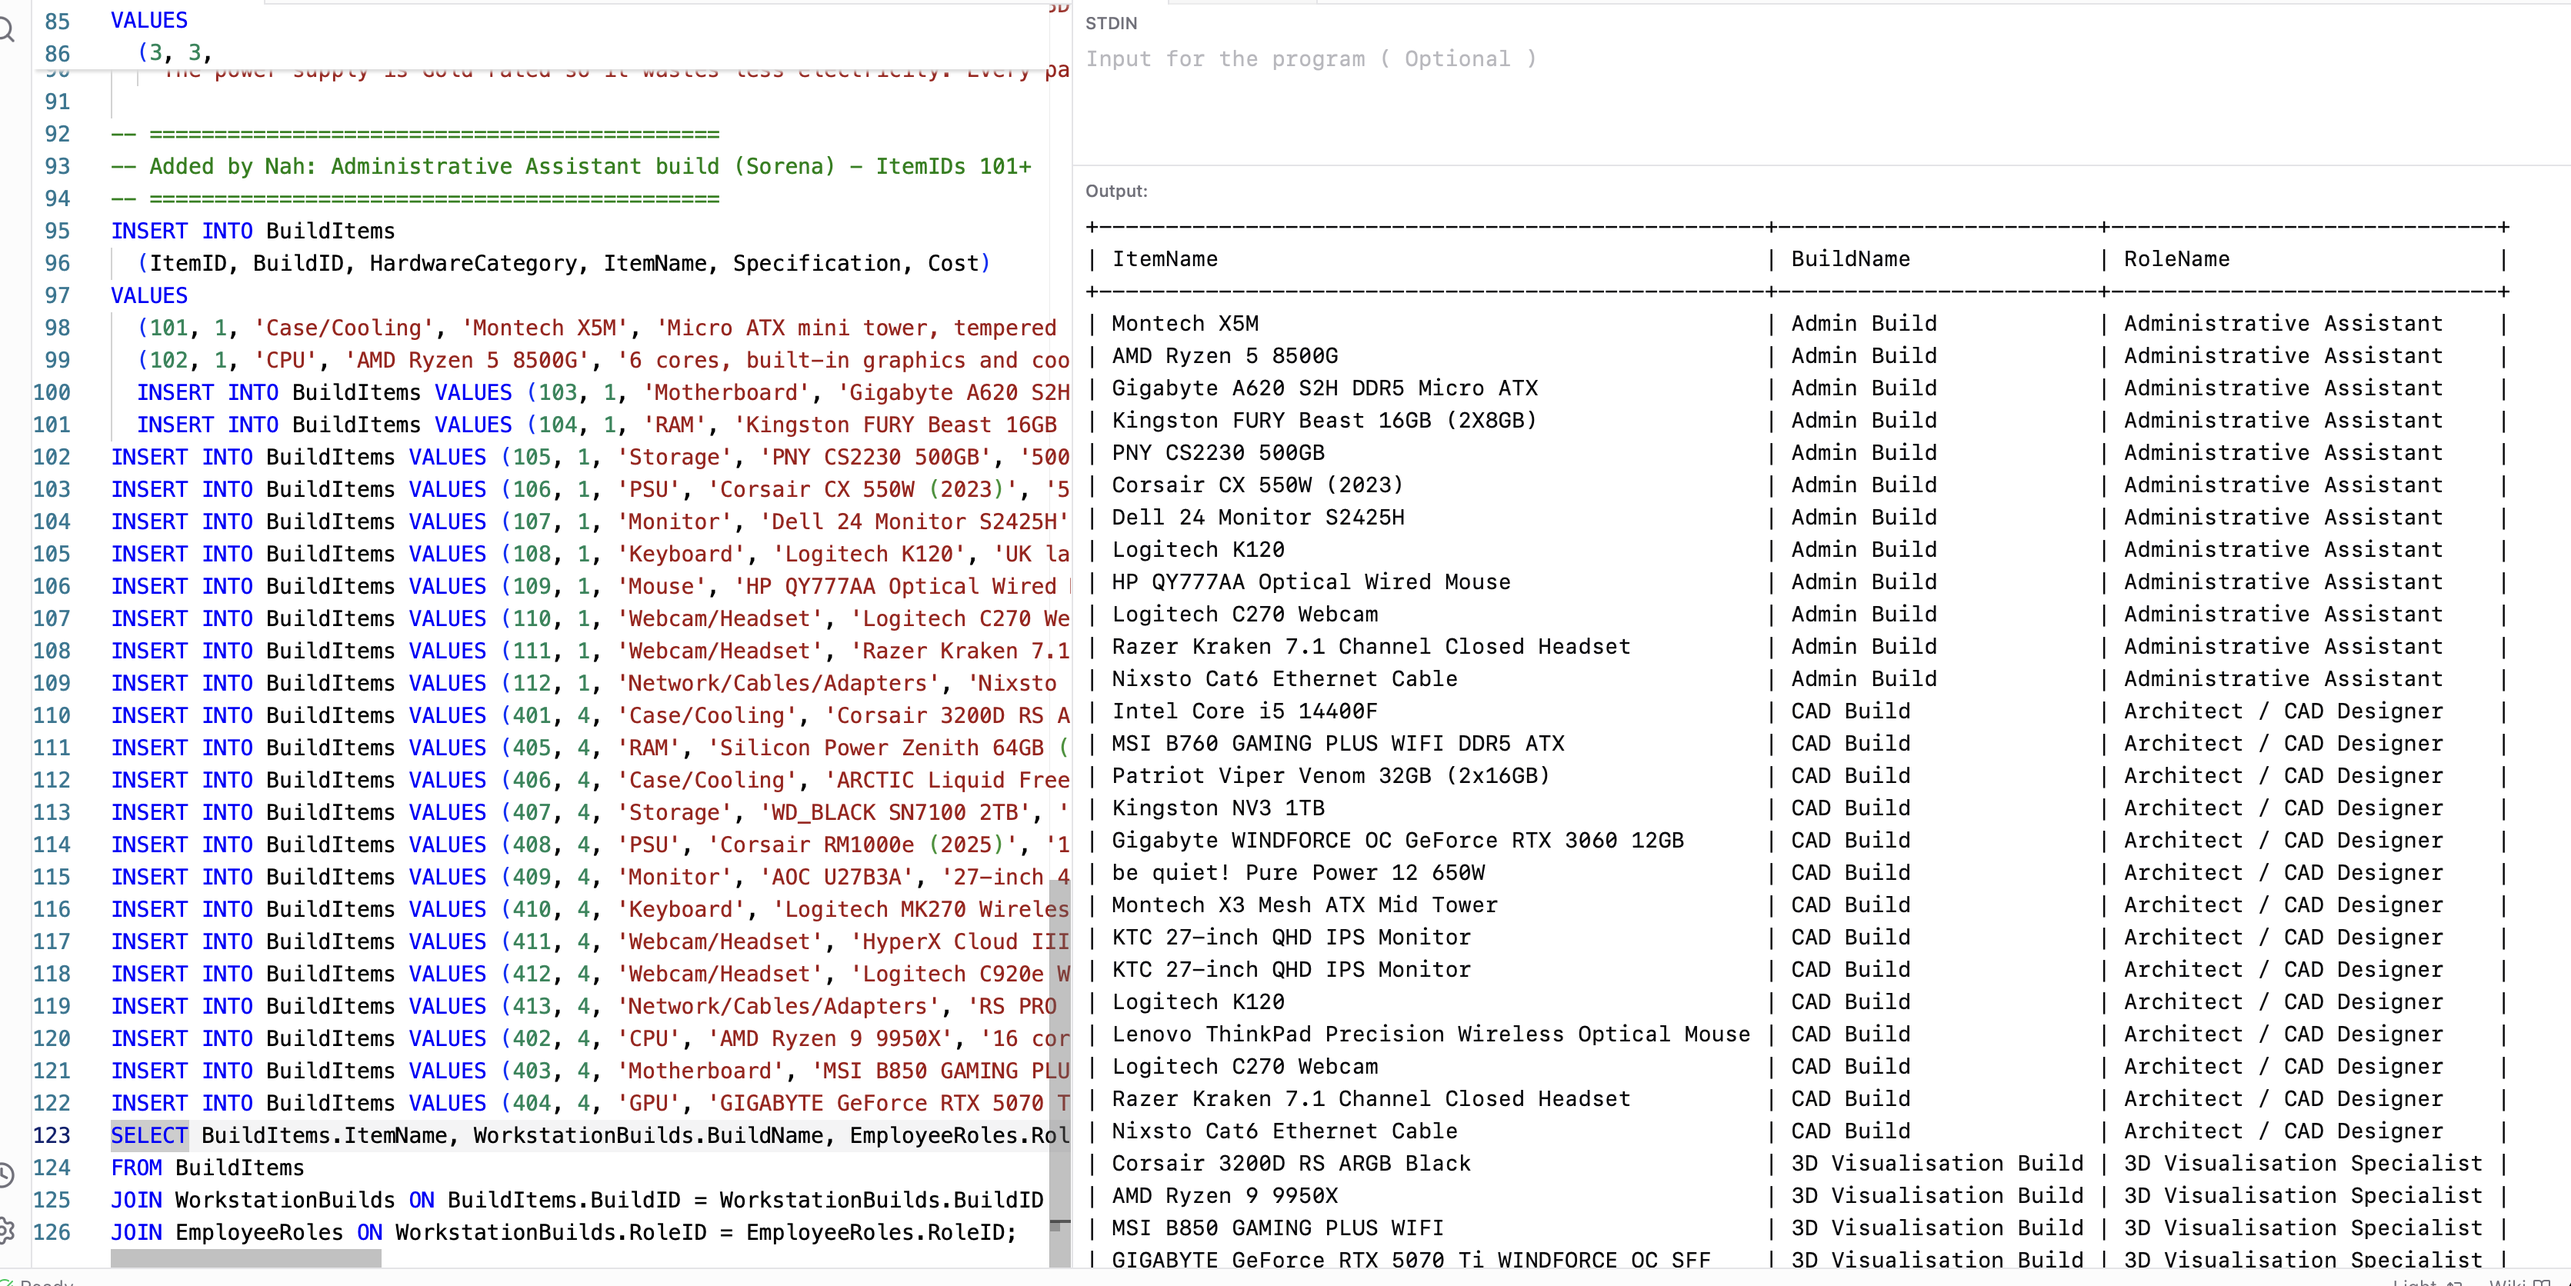
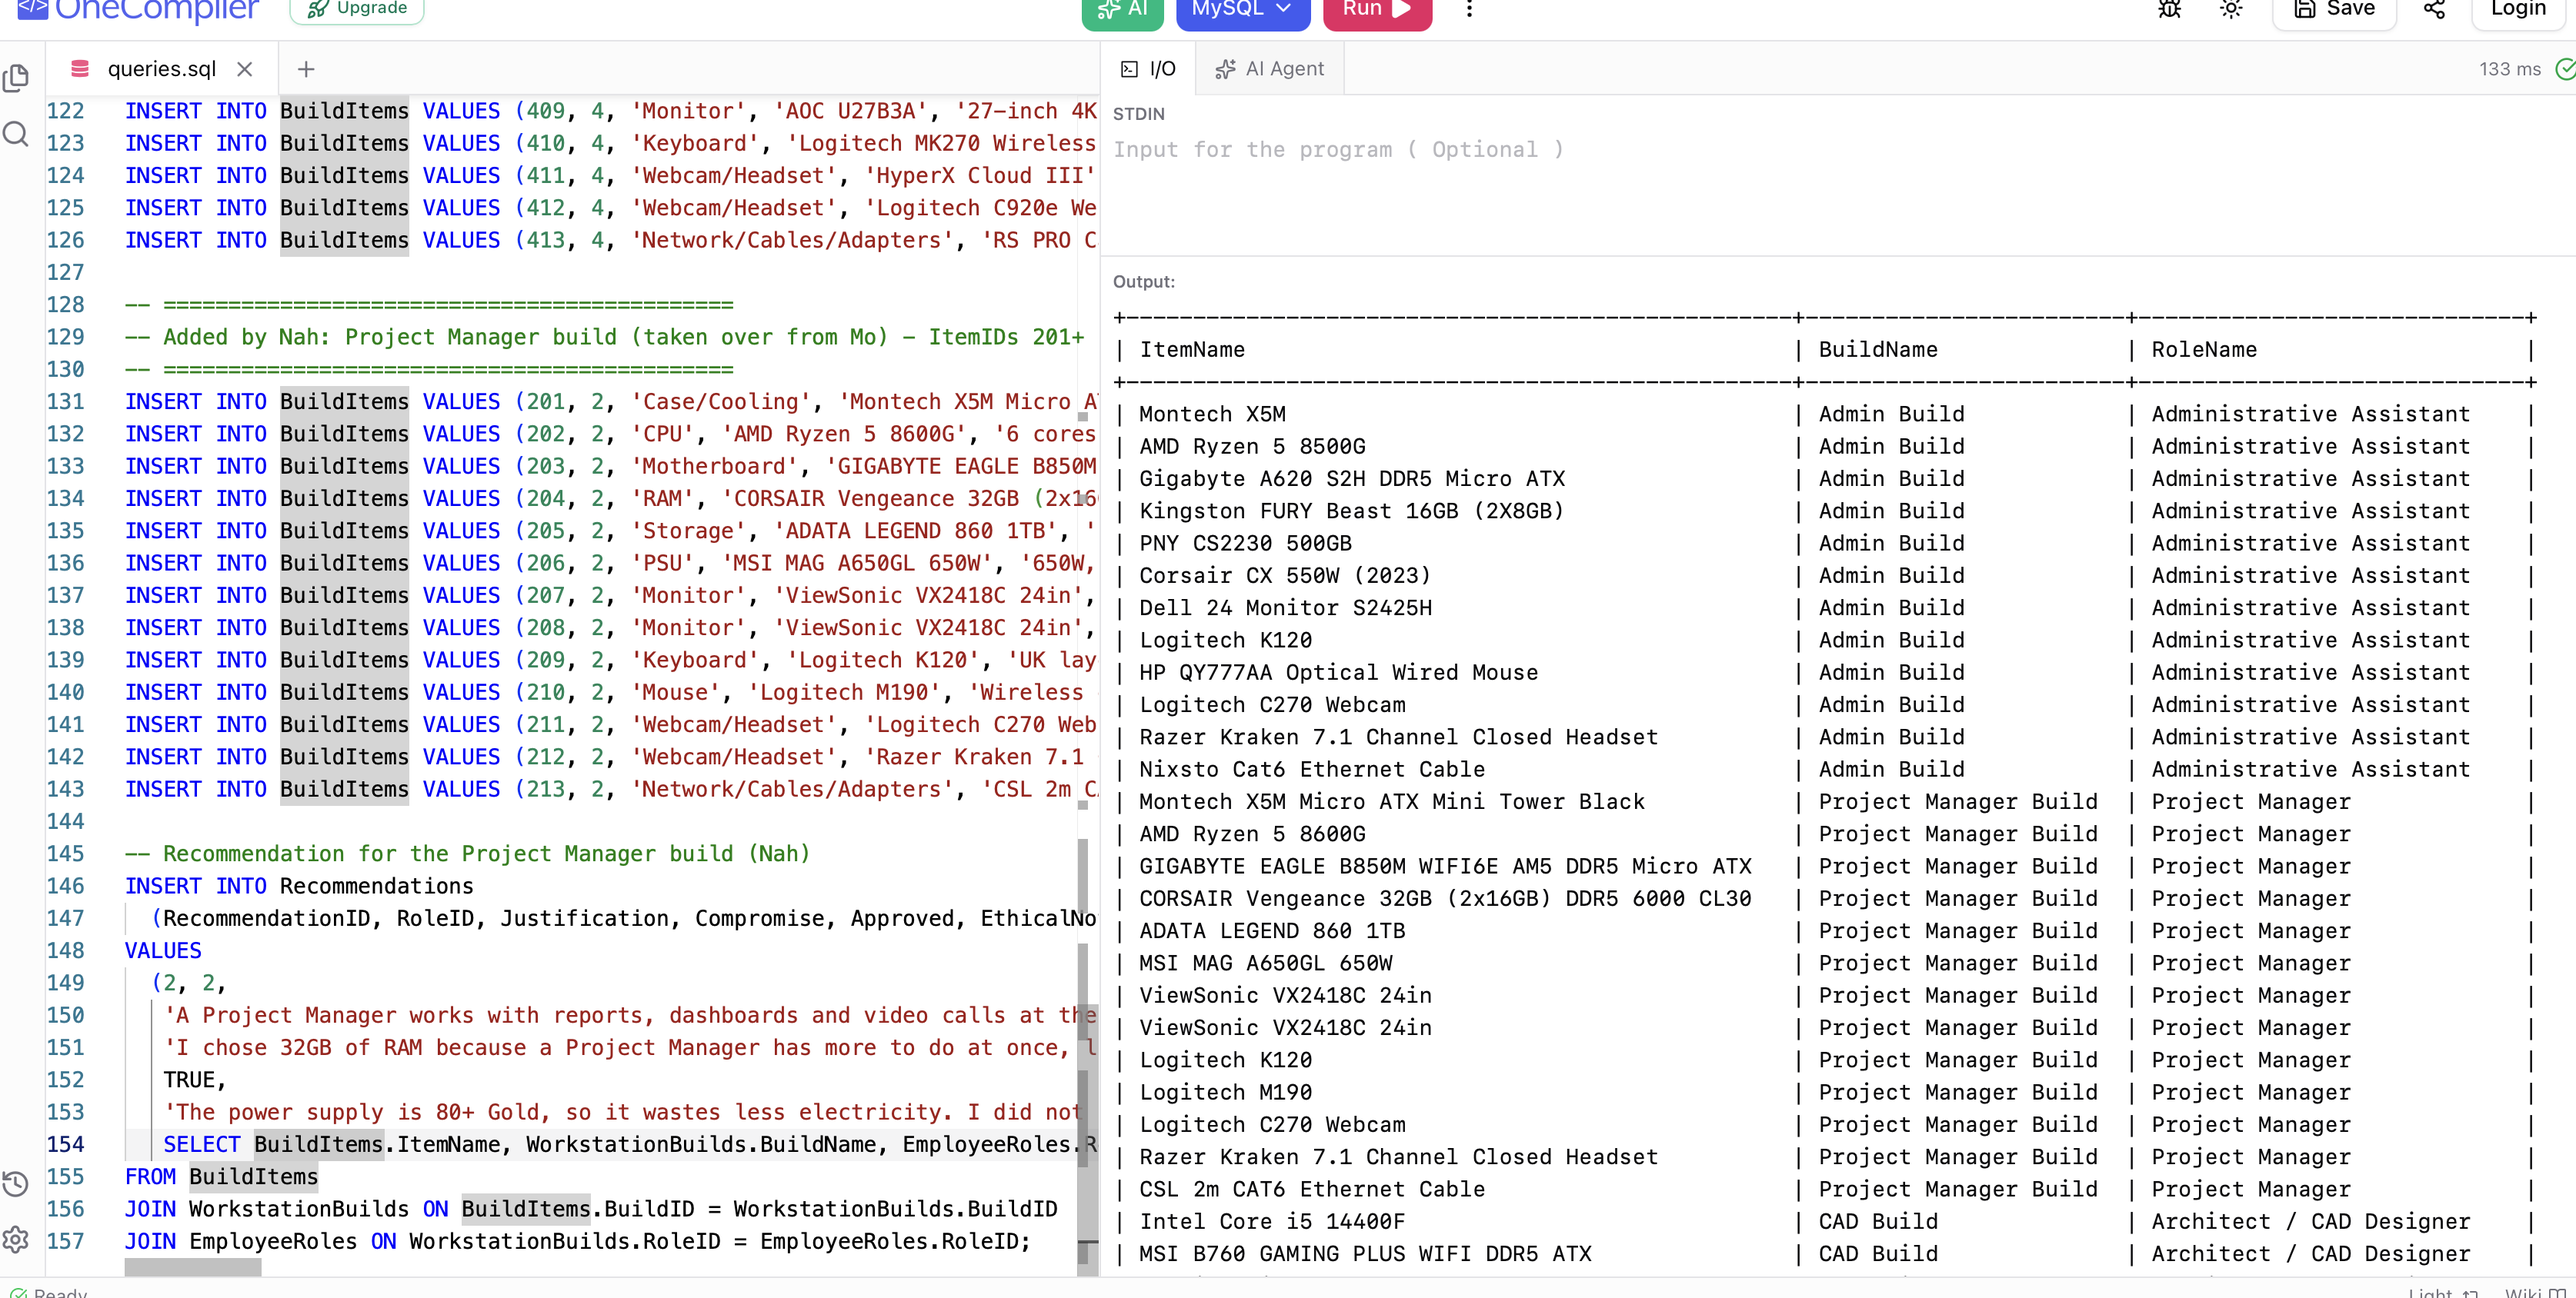
Mini Project 1: re-run queries 8, 10, 11 and the Recommendations check with the Project Manager build

diff --git a/01_Computing_Fundamentals/SQL_Database/Nah_SQL/SQL_Query_Explanations_Nah.md b/01_Computing_Fundamentals/SQL_Database/Nah_SQL/SQL_Query_Explanations_Nah.md
@@ -2,7 +2,7 @@
 
 **Mini Project 1: Northwest Architecture Studio** · Nah'Kajsha Reid
 
-Every query below was run on OneCompiler (MySQL) on 01/10/2026, on the team database built from the brief's ER diagram (page 7). Screenshots are in `Evidence/SQL_Queries`.
+Every query below was run on OneCompiler (MySQL) on 01/10/2026 (Queries 8, 10 and 11 and the Recommendations check were re-run on 02/10/2026, after the Project Manager build was added), on the team database built from the brief's ER diagram (page 7). Screenshots are in `Evidence/SQL_Queries`.
 
 ---
 
@@ -72,7 +72,7 @@ This query adds up the cost of every item in build 1 (Sorena's Administrative As
 ```sql
 SELECT BuildID, SUM(Cost) FROM BuildItems GROUP BY BuildID ORDER BY SUM(Cost) DESC;
 ```
-This query shows the total cost of each build, with the most expensive first. GROUP BY puts the items into a separate group for each build, like a separate shopping basket for each person, and SUM adds up each group. ORDER BY … DESC sorts them biggest first, so build 4 (£3,445.21) is at the top, then build 3 (£1,844.50), then build 1 (£808.81).
+This query shows the total cost of each build, with the most expensive first. GROUP BY puts the items into a separate group for each build, like a separate shopping basket for each person, and SUM adds up each group. ORDER BY … DESC sorts them biggest first, so build 4 (£3,445.21) is at the top, then build 3 (£1,844.50), then build 2 (£1,296.59), then build 1 (£808.81).
 
 ![Query 8 result](Evidence/SQL_Queries/Q08.png)
 
@@ -95,7 +95,7 @@ FROM BuildItems
 JOIN WorkstationBuilds ON BuildItems.BuildID = WorkstationBuilds.BuildID
 JOIN EmployeeRoles ON WorkstationBuilds.RoleID = EmployeeRoles.RoleID;
 ```
-This query shows every item with the build it is in and the role that build is for. It links three tables using two JOINs: BuildItems joins to WorkstationBuilds using BuildID, and WorkstationBuilds joins to EmployeeRoles using RoleID. It works like following a chain, from a lost item to its locker to the student's name. It showed 39 items across the three builds.
+This query shows every item with the build it is in and the role that build is for. It links three tables using two JOINs: BuildItems joins to WorkstationBuilds using BuildID, and WorkstationBuilds joins to EmployeeRoles using RoleID. It works like following a chain, from a lost item to its locker to the student's name. It showed 52 items across the four builds.
 
 ![Query 10 result, part 1](Evidence/SQL_Queries/Q10a.png)
 ![Query 10 result, part 2](Evidence/SQL_Queries/Q10b.png)
@@ -117,9 +117,17 @@ This query shows the total hardware cost for each job role. It uses the same two
 ## Checking the other tables
 
 ```sql
-SELECT * FROM Recommendations;
+SELECT RecommendationID, RoleID, Approved FROM Recommendations;
+SELECT RecommendationID, REPLACE(Justification, '. ', '.\n') AS Justification FROM Recommendations\G
+SELECT RecommendationID, REPLACE(Compromise, '. ', '.\n') AS Compromise FROM Recommendations\G
+SELECT RecommendationID, REPLACE(EthicalNotes, '. ', '.\n') AS EthicalNotes FROM Recommendations\G
 ```
-This query uses `*` to show every column in the Recommendations table, to check it works, because the brief asks for every table to be queried. It showed 1 row, the recommendation for RoleID 3 (Architect / CAD Designer), which Marcus wrote. The other team members' recommendations have not been added yet.
+This checks every column in the Recommendations table, because the brief asks for every table to be queried. It showed 2 rows: RoleID 2 (Project Manager), which I wrote, and RoleID 3 (Architect / CAD Designer), which Marcus wrote. The other team members' recommendations have not been added yet. The paragraphs were too long to fit on screen, so I checked one column at a time. REPLACE starts a new line after each full stop, and \G shows each row going down the page instead of across, so every word can be seen.
 
-![Recommendations, part 1](Evidence/SQL_Queries/Check_Recommendations_a.png)
-![Recommendations, part 2](Evidence/SQL_Queries/Check_Recommendations_b.png)
+![Recommendations: ID, RoleID and Approved](Evidence/SQL_Queries/Check_Recommendations_1.png)
+![Recommendations: Justification, part 1](Evidence/SQL_Queries/Check_Recommendations_2a.png)
+![Recommendations: Justification, part 2](Evidence/SQL_Queries/Check_Recommendations_2b.png)
+![Recommendations: Compromise, part 1](Evidence/SQL_Queries/Check_Recommendations_3a.png)
+![Recommendations: Compromise, part 2](Evidence/SQL_Queries/Check_Recommendations_3b.png)
+![Recommendations: EthicalNotes, part 1](Evidence/SQL_Queries/Check_Recommendations_4a.png)
+![Recommendations: EthicalNotes, part 2](Evidence/SQL_Queries/Check_Recommendations_4b.png)
